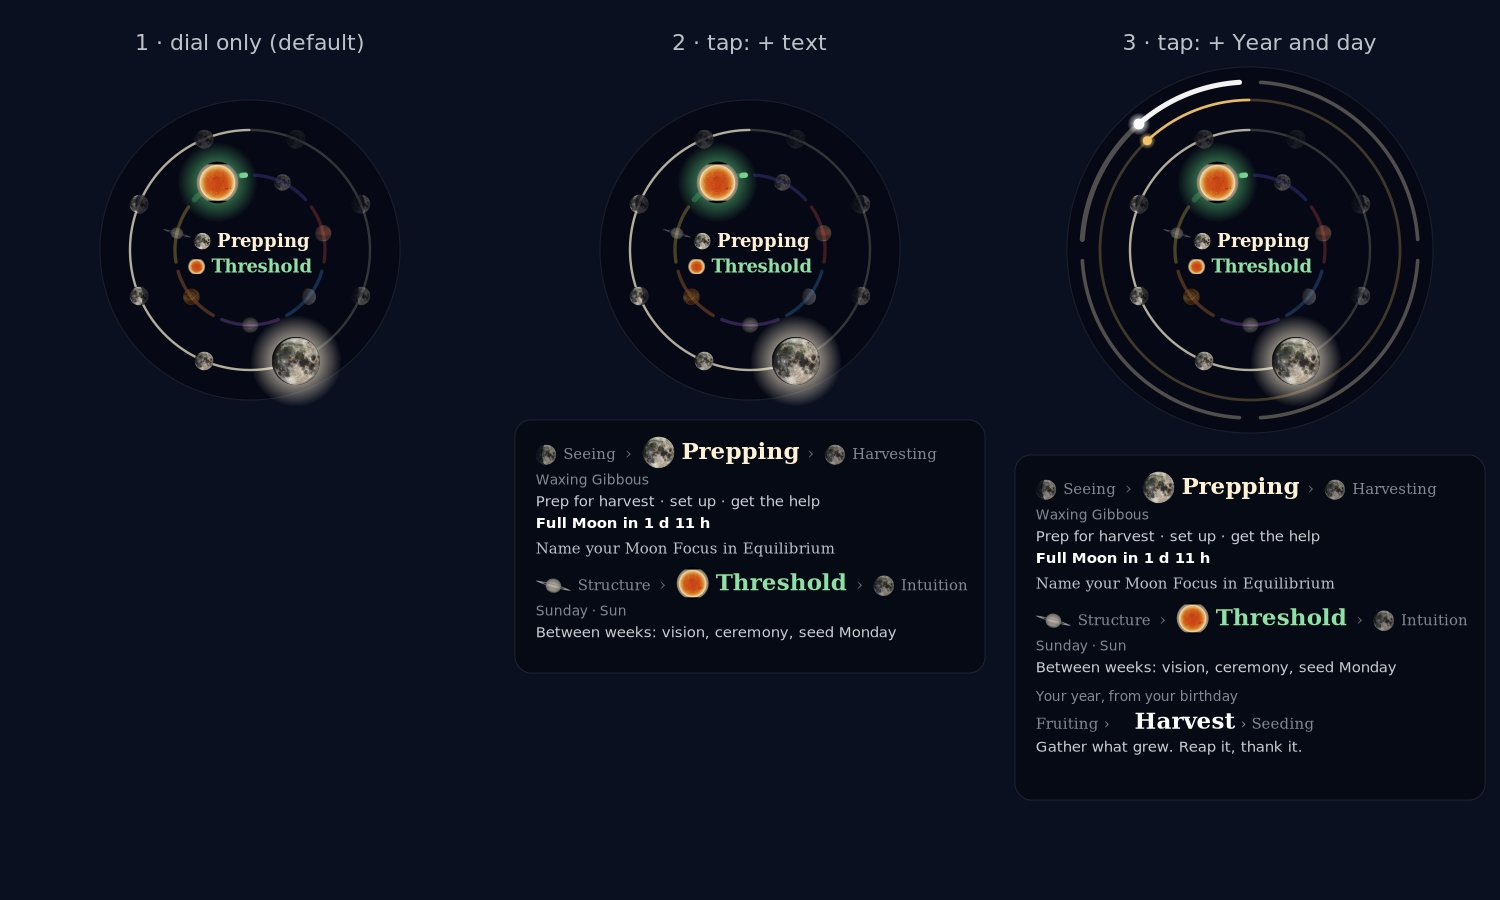
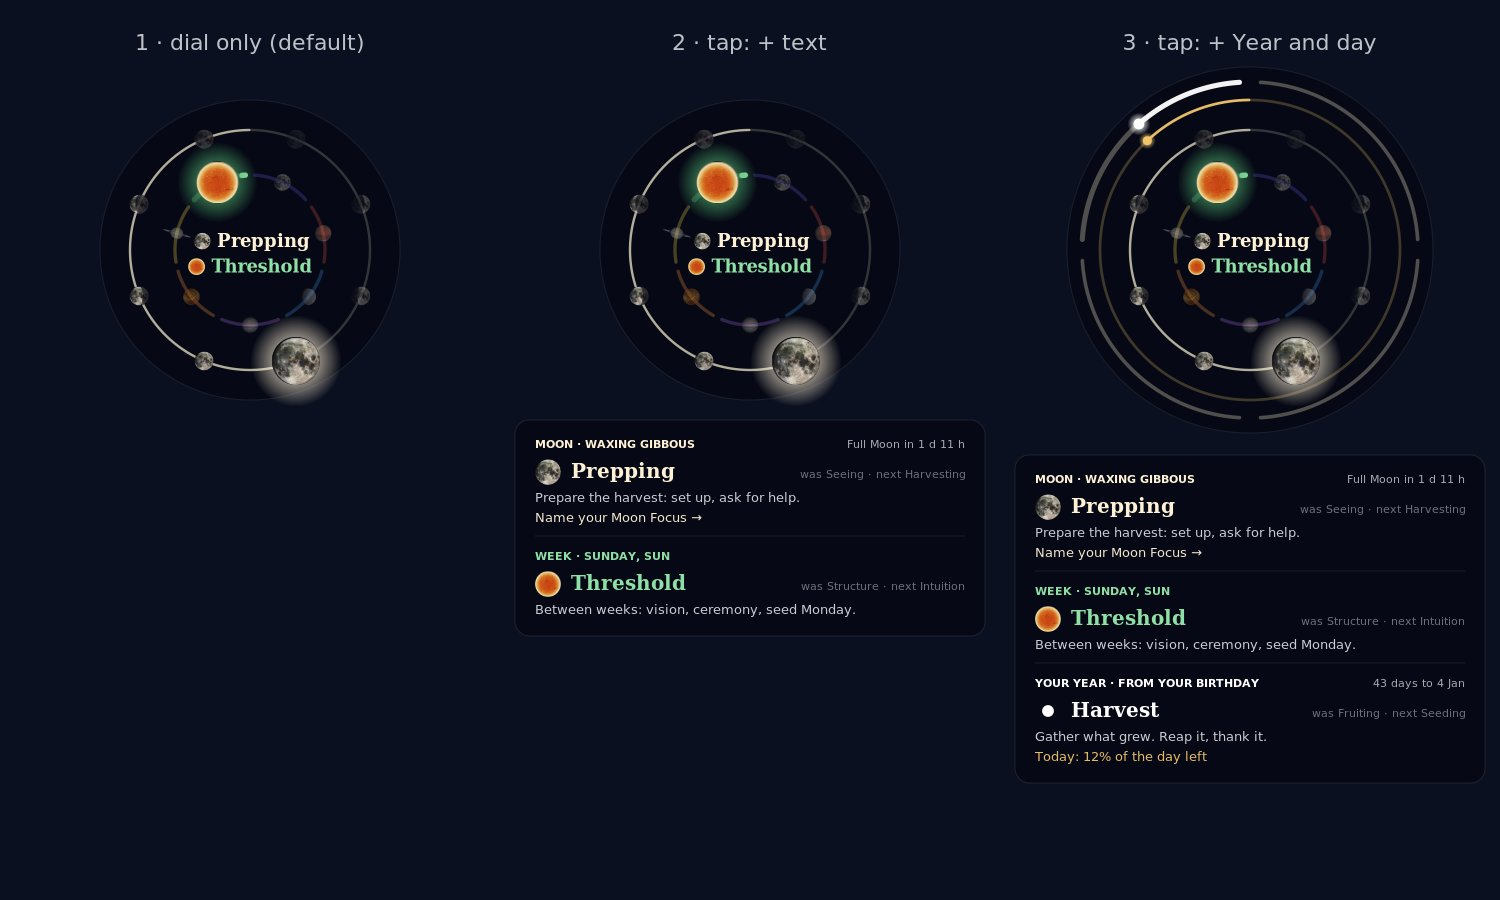
Biologic clock v6.1: card grid + sun circular mask

diff --git a/docs/specs/equilibrium/biologic_clock_rings_spec.md b/docs/specs/equilibrium/biologic_clock_rings_spec.md
@@ -51,6 +51,8 @@ Planet images: `public/assets/equilibrium/planets/{moon,mars,mercury,jupiter,ven
 - Sizes (Sasha 2026-11-22 15:36 «слишком маленькие», commit 056d963): village dial 200 px desktop, 148 px phone; profile up to 320 px. Phone (~390 px): the card is full width under the dial; nothing clipped. v6: the centre words never render below 12 px, so the phone dial is 200 px too (148 px gave ~9 px words).
 
 ## Improvements v6 (from the live review, Sasha 2026-11-22 21:06 «сделай спецификацию по улучшению»)
+8. **Card text, one grid per ring** (Sasha 21:13 «текст очень малоорганизованный»; was: three different layouts, two fonts, five sizes, no ring names, Moon Focus floating between blocks). Every block the same 3 lines: (a) small caps label in the ring colour with its address (`MOON · WAXING GIBBOUS`, `WEEK · SUNDAY, SUN`, `YOUR YEAR · FROM YOUR BIRTHDAY`) and time left right-aligned; (b) current symbol + current word large in the ring colour, `was … · next …` small and dim on the right; (c) meaning as one plain sentence. Extras sit under their own block: Moon Focus link under Moon; `Today: N% of the day left` (gold) under Year. Thin dividers between blocks. Three sizes only (11 / 13 / 20), one serif for names, sans for the rest.
+9. **Sun image clipped to a circle** (Sasha 21:13 «Солнце обрезано»): `planets/sun.png` has a square crop with black bars and a cut corona; render the Sun through a circular mask (disc ~88% of the image) with our own glow.
 Mockup v6 (real values, Sun 2026-11-22 ~21:00 MST): [three views](../../02-strategy/research/iconic-mechanics/mockups/bioclock-v6-views.jpg) · [village, desktop 200 px](../../02-strategy/research/iconic-mechanics/mockups/bioclock-v6-village.jpg) · [phone 390 px, dial 200 px](../../02-strategy/research/iconic-mechanics/mockups/bioclock-v6-mobile.jpg). Static, not in code.
 Why: live check 2026-11-22. The two centre words don't say which cycle they belong to; the second is grey and barely readable; each ring shows «where I am» its own way; symbols are 9–13 px and merge into dots; the rings jump when Year and day open. The 5-second test fails.
 
